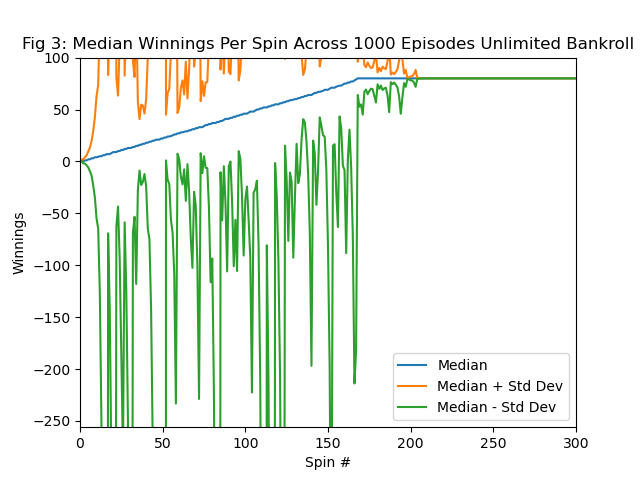
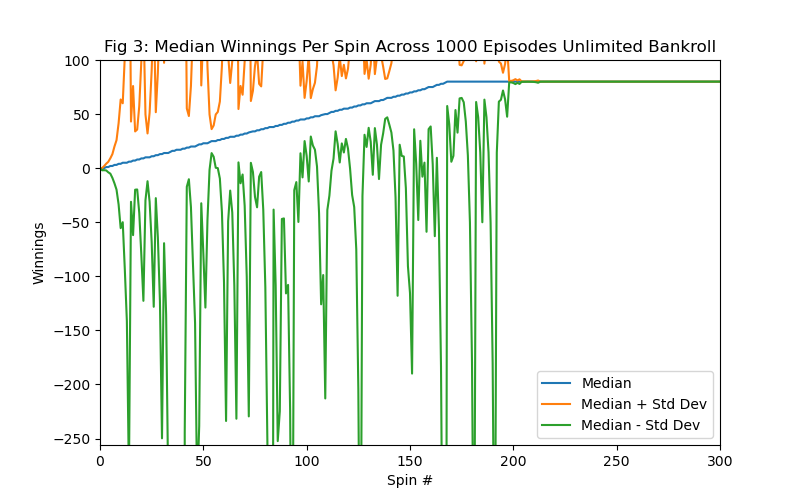
martingale final

diff --git a/martingale/martingale.py b/martingale/martingale.py
@@ -71,12 +71,10 @@ def test_code():
 
   	#Experiment 1
     figure1(win_prob)
-    figure2(win_prob)
-    figure3(win_prob)
+    figure2and3(win_prob)
 
     #Experiment 2
-    figure4(win_prob)
-    figure5(win_prob)
+    figure4and5(win_prob)
 
 def figure1(win_prob):
     num_simulations = 10
@@ -100,12 +98,13 @@ def figure1(win_prob):
 
     plt.savefig("figure1.png")
     plt.close()
-
-def figure2(win_prob):
+    
+def figure2and3(win_prob):
     x_limit = 1001
     x_coordinates = range(x_limit)
 
-    mean, mean_plus_std, mean_minus_std = generate_mean(win_prob)
+    simulations = generate_data(win_prob)
+    mean, mean_plus_std, mean_minus_std = generate_mean(simulations)
     
     plt.plot(x_coordinates, mean, label="Mean")
     plt.plot(x_coordinates, mean_plus_std, label="Mean + Std Dev")
@@ -121,11 +120,9 @@ def figure2(win_prob):
     plt.savefig("figure2.png")
     plt.close()
 
-def figure3(win_prob):
-    x_limit = 1001
-    x_coordinates = range(x_limit)
+    plt.figure(figsize=(8, 5))
 
-    median, median_plus_std, median_minus_std = generate_median(win_prob)
+    median, median_plus_std, median_minus_std = generate_median(simulations)
 
     plt.plot(x_coordinates, median, label="Median")
     plt.plot(x_coordinates, median_plus_std, label="Median + Std Dev")
@@ -137,16 +134,16 @@ def figure3(win_prob):
     plt.xlim([0, 300])
     plt.ylim([-256, 100])
     plt.legend(loc="best")
-    
+
     plt.savefig("figure3.png")
     plt.close()
 
-
-def figure4(win_prob):
+def figure4and5(win_prob):
     x_limit = 1001
     x_coordinates = range(x_limit)
 
-    mean, mean_plus_std, mean_minus_std = generate_mean(win_prob, True)
+    simulations = generate_data(win_prob, True)
+    mean, mean_plus_std, mean_minus_std = generate_mean(simulations)
 
     plt.plot(x_coordinates, mean, label="Mean")
     plt.plot(x_coordinates, mean_plus_std, label="Mean + Std Dev")
@@ -162,11 +159,12 @@ def figure4(win_prob):
     plt.savefig("figure4.png")
     plt.close()
 
-def figure5(win_prob):
+    plt.figure(figsize=(8, 5))
+
     x_limit = 1001
     x_coordinates = range(x_limit)
 
-    median, median_plus_std, median_minus_std = generate_median(win_prob, True)
+    median, median_plus_std, median_minus_std = generate_median(simulations)
 
     plt.plot(x_coordinates, median, label="Median")
     plt.plot(x_coordinates, median_plus_std, label="Median + Std Dev")
@@ -182,13 +180,16 @@ def figure5(win_prob):
     plt.savefig("figure5.png")
     plt.close()
 
-def generate_mean(win_prob, realistic = False):
+def generate_data(win_prob, realistic = False):
     simulations = []
     num_simulations = 1000
 
     while len(simulations) < num_simulations:
         simulations.append(strategy(win_prob, realistic))
 
+    return simulations
+
+def generate_mean(simulations):
     mean = np.mean(simulations, axis=0)
     std = np.std(simulations, axis=0)
 
@@ -198,13 +199,7 @@ def generate_mean(win_prob, realistic = False):
     return mean, mean_plus_std, mean_minus_std
 
 
-def generate_median(win_prob, realistic = False):
-    simulations = []
-    num_simulations = 1000
-
-    while len(simulations) < num_simulations:
-        simulations.append(strategy(win_prob, realistic))
-
+def generate_median(simulations):
     median = np.median(simulations, axis=0)
     std = np.std(simulations, axis=0)
 
@@ -250,4 +245,4 @@ def strategy(win_prob, realistic = False):
     return np.array(winnings_per_spin)
 
 if __name__ == "__main__":  		  	   		 	 	 		  		  		    	 		 		   		 		  
-    test_code()  		  	   		 	 	 		  		  		    	 		 		   		 		  
+    test_code()  		  	
